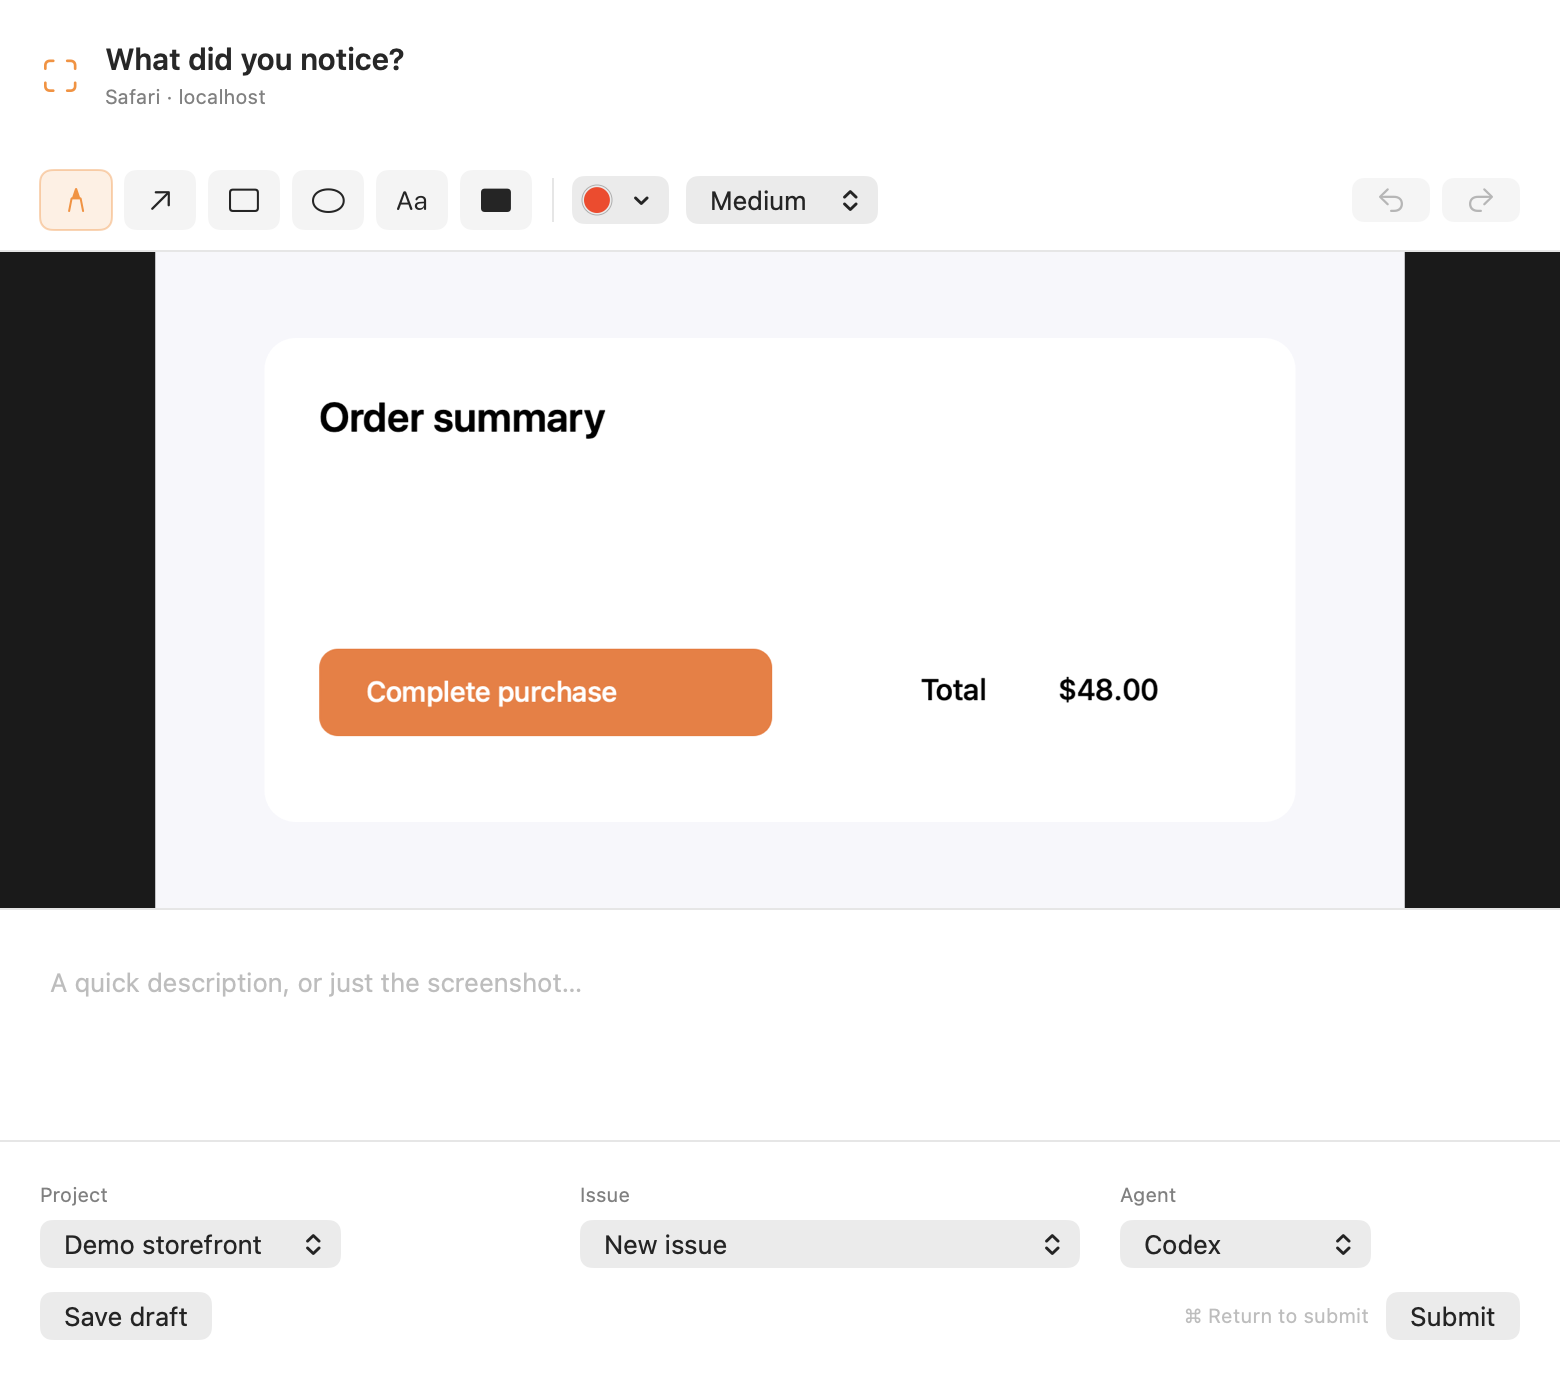
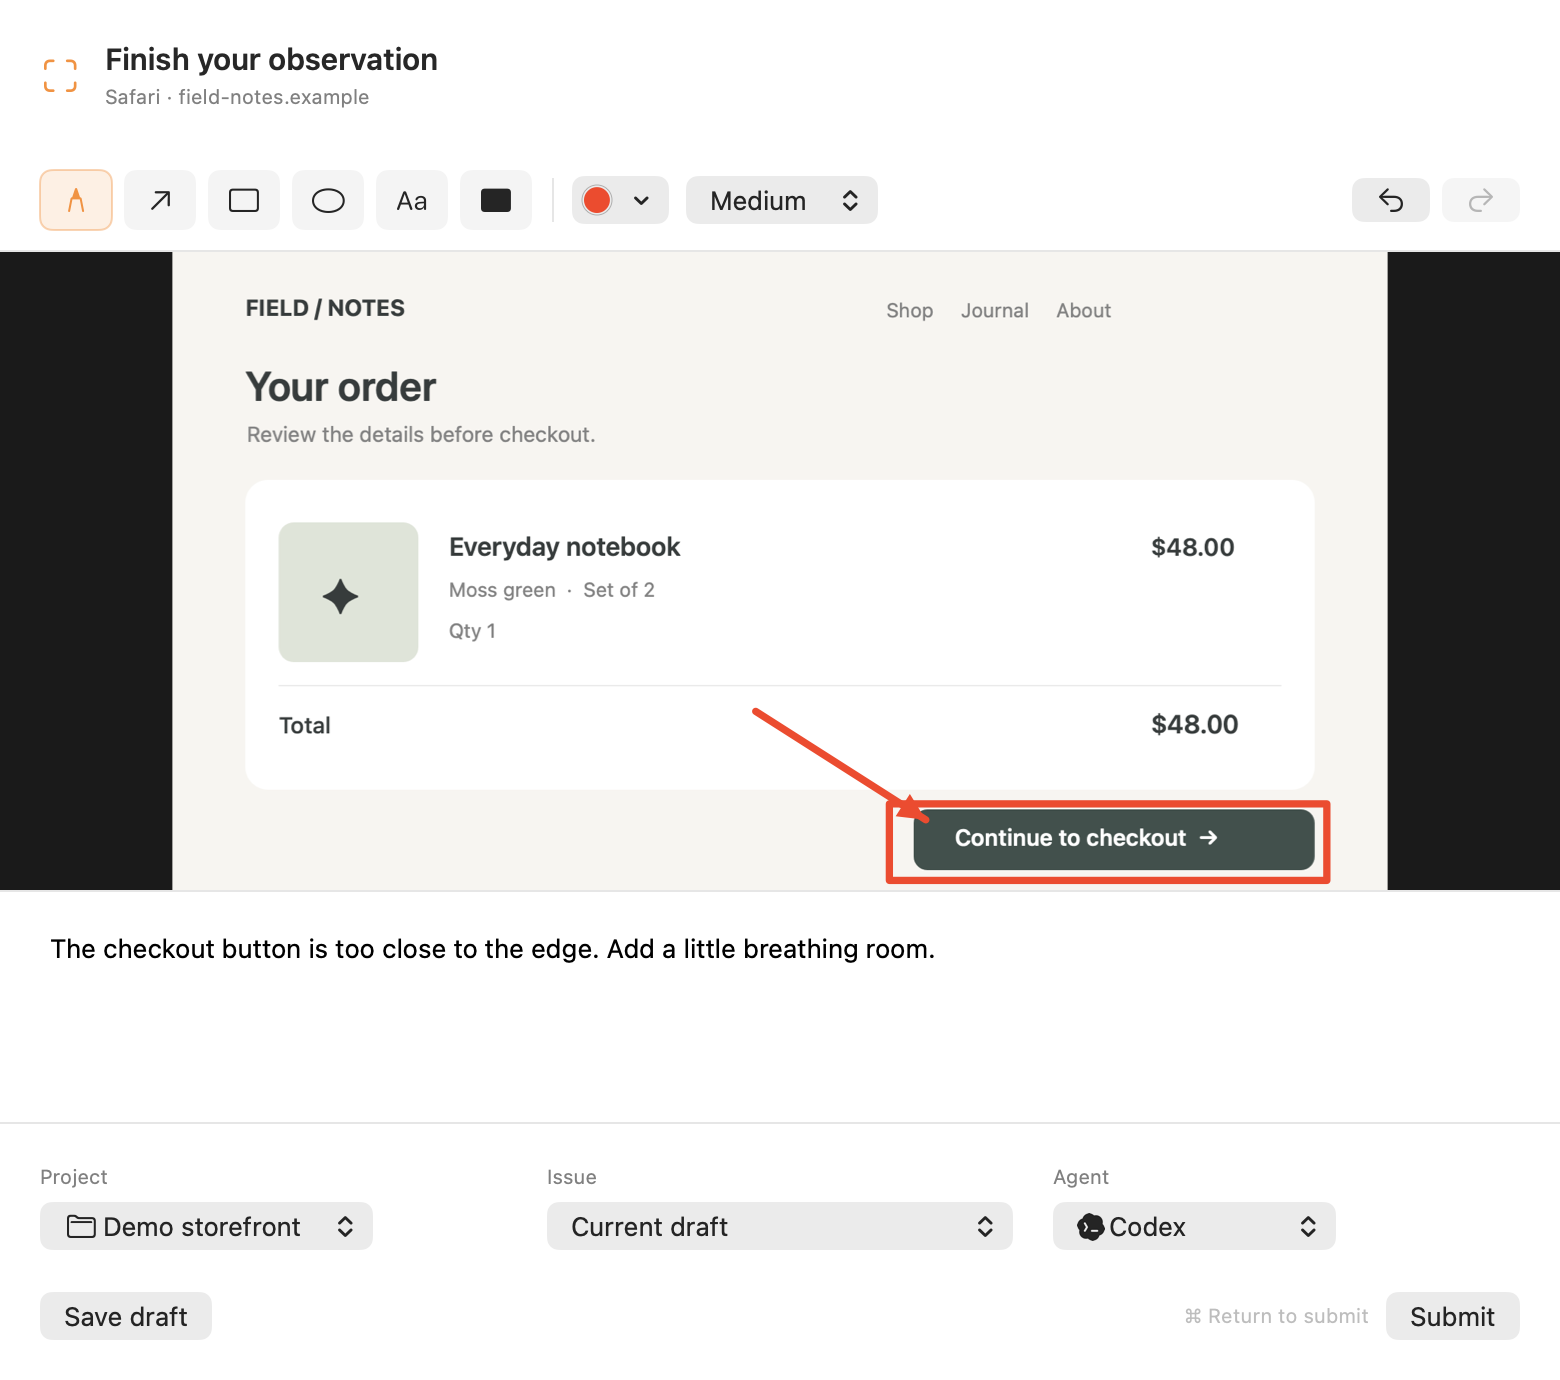
Refresh README screenshots and clarify agent availability

diff --git a/Sources/ScreenClip/PreviewSupport.swift b/Sources/ScreenClip/PreviewSupport.swift
@@ -5,36 +5,39 @@ import SwiftUI
   static func exampleImage() -> NSImage {
     let image = NSImage(size: NSSize(width: 800, height: 420))
     image.lockFocus()
-    NSColor(calibratedRed: 0.96, green: 0.96, blue: 0.98, alpha: 1).setFill()
+    NSColor(calibratedRed: 0.96, green: 0.95, blue: 0.93, alpha: 1).setFill()
     NSRect(x: 0, y: 0, width: 800, height: 420).fill()
-    let card = NSRect(x: 70, y: 55, width: 660, height: 310)
+    func text(_ value: String, x: CGFloat, y: CGFloat, size: CGFloat, weight: NSFont.Weight = .regular, color: NSColor = .labelColor) {
+      value.draw(at: NSPoint(x: x, y: y), withAttributes: [
+        .font: NSFont.systemFont(ofSize: size, weight: weight), .foregroundColor: color,
+      ])
+    }
+    func rounded(_ rect: NSRect, radius: CGFloat, color: NSColor) {
+      color.setFill()
+      NSBezierPath(roundedRect: rect, xRadius: radius, yRadius: radius).fill()
+    }
+    let ink = NSColor(calibratedRed: 0.16, green: 0.18, blue: 0.18, alpha: 1)
+    let muted = NSColor(calibratedWhite: 0.43, alpha: 1)
+    text("FIELD / NOTES", x: 48, y: 374, size: 15, weight: .bold, color: ink)
+    text("Shop     Journal     About", x: 470, y: 374, size: 13, color: muted)
+    text("Your order", x: 48, y: 316, size: 27, weight: .semibold, color: ink)
+    text("Review the details before checkout.", x: 49, y: 292, size: 14, color: muted)
     NSColor.white.setFill()
-    NSBezierPath(roundedRect: card, xRadius: 20, yRadius: 20).fill()
-    "Order summary".draw(
-      at: NSPoint(x: 105, y: 300),
-      withAttributes: [
-        .font: NSFont.systemFont(ofSize: 26, weight: .semibold), .foregroundColor: NSColor.black,
-      ])
-    "Your next adventure starts here.".draw(
-      at: NSPoint(x: 105, y: 255),
-      withAttributes: [
-        .font: NSFont.systemFont(ofSize: 17), .foregroundColor: NSColor.secondaryLabelColor,
-      ])
-    NSColor(calibratedRed: 0.94, green: 0.39, blue: 0.16, alpha: 1).setFill()
-    NSBezierPath(
-      roundedRect: NSRect(x: 105, y: 110, width: 290, height: 56), xRadius: 12, yRadius: 12
-    ).fill()
-    "Complete purchase".draw(
-      at: NSPoint(x: 135, y: 128),
-      withAttributes: [
-        .font: NSFont.systemFont(ofSize: 18, weight: .medium), .foregroundColor: NSColor.white,
-      ])
-    "Total          $48.00".draw(
-      at: NSPoint(x: 490, y: 128),
-      withAttributes: [
-        .font: NSFont.monospacedDigitSystemFont(ofSize: 19, weight: .medium),
-        .foregroundColor: NSColor.black,
-      ])
+    rounded(NSRect(x: 48, y: 66, width: 704, height: 204), radius: 15, color: .white)
+    rounded(NSRect(x: 70, y: 150, width: 92, height: 92), radius: 10,
+      color: NSColor(calibratedRed: 0.84, green: 0.87, blue: 0.81, alpha: 1))
+    text("✦", x: 98, y: 175, size: 32, weight: .medium, color: ink)
+    text("Everyday notebook", x: 182, y: 216, size: 17, weight: .semibold, color: ink)
+    text("Moss green  ·  Set of 2", x: 182, y: 190, size: 13, color: muted)
+    text("Qty 1", x: 182, y: 163, size: 13, color: muted)
+    text("$48.00", x: 644, y: 216, size: 16, weight: .semibold, color: ink)
+    NSColor(calibratedWhite: 0.9, alpha: 1).setFill()
+    NSRect(x: 70, y: 134, width: 660, height: 1).fill()
+    text("Total", x: 70, y: 99, size: 15, weight: .medium, color: ink)
+    text("$48.00", x: 644, y: 99, size: 17, weight: .semibold, color: ink)
+    rounded(NSRect(x: 488, y: 13, width: 264, height: 40), radius: 9,
+      color: NSColor(calibratedRed: 0.19, green: 0.25, blue: 0.23, alpha: 1))
+    text("Continue to checkout  →", x: 515, y: 25, size: 15, weight: .semibold, color: .white)
     image.unlockFocus()
     return image
   }
@@ -52,7 +55,7 @@ import SwiftUI
       browserURL: "http://localhost:3000/checkout", sessionName: "Checkout on a narrow window",
       testedVersion: "Preview build", routingReason: "Matched website rule")
     var first = Issue(
-      projectID: project.id, title: "Button label is clipped at this width",
+      projectID: project.id, title: "Checkout button needs more space",
       capture: Capture(
         note: "The purchase button needs a little more breathing room on small windows.",
         imagePath: asset, context: context))
@@ -85,6 +88,9 @@ import SwiftUI
   }
   static func render(model: AppModel, root: URL) throws {
     try seed(model: model)
+    model.applyScreenshotAgentStatus()
+    // Rendering uses a dedicated preview queue and never starts the worker.
+    try model.commit { $0.settings.paused = false }
     let window = NSWindow(
       contentRect: NSRect(x: 0, y: 0, width: 1240, height: 800), styleMask: [.titled],
       backing: .buffered, defer: false)
@@ -130,12 +136,26 @@ import SwiftUI
       image: exampleImage(),
       marks: [Annotation(kind: .redact, points: [MarkPoint(0.1, 0.1), MarkPoint(0.3, 0.25)])])
     try test.write(to: root.appendingPathComponent("redaction-preview.png"))
+    let previewContext = CaptureContext(
+      appName: "Safari", bundleID: "com.apple.Safari",
+      browserURL: "https://field-notes.example/checkout")
+    let previewCapture = Capture(
+      note: "The checkout button is too close to the edge. Add a little breathing room.",
+      imagePath: "preview", originalPath: "preview",
+      annotations: [
+        Annotation(kind: .rectangle, points: [MarkPoint(0.59, 0.865), MarkPoint(0.95, 0.985)],
+          color: .red, lineWidth: 0.006),
+        Annotation(kind: .arrow, points: [MarkPoint(0.48, 0.72), MarkPoint(0.62, 0.89)],
+          color: .red, lineWidth: 0.006),
+      ], context: previewContext)
+    var previewDraft = Issue(
+      projectID: model.snapshot.projects.first?.id, title: "Checkout button spacing",
+      capture: previewCapture)
+    previewDraft.status = .draft
     window.contentView = NSHostingView(
       rootView: ComposerView(
-        model: model, image: exampleImage(),
-        context: CaptureContext(
-          appName: "Safari", bundleID: "com.apple.Safari",
-          browserURL: "http://localhost:3000/checkout"), existing: nil, close: {}
+        model: model, image: exampleImage(), context: previewContext,
+        existing: previewDraft, close: {}
       ).background(Color.white).preferredColorScheme(.light))
     window.setContentSize(NSSize(width: 780, height: 690))
     window.display()

diff --git a/docs/agents/external-assistant.md b/docs/agents/external-assistant.md
@@ -8,10 +8,10 @@ Grok Bot is a remote destination. It does not run on the Mac and does not return
 
 | Topic | Behavior |
 | --- | --- |
-| Where it appears | Settings → Connections → **AI agent** → **Default agent**, the agent list, and the capture window's **Agent** picker, next to Codex and Claude Code. |
+| Where it appears | Settings → Connections → **AI agent** → **Default agent** and the agent list. The capture window offers Grok Bot when its connection and the project opt-in are ready. |
 | Ready | The Grok Bot row says **Connected** and the host once a setup code has been saved in the Keychain. Otherwise it says **Not connected — Connect Grok Bot**. |
 | Evidence | Approved screenshots and `report.json` are committed to `screenclip/<reportNumber>-<slug>-<workspace>` in the project's repository and pushed. The webhook does not contain image bytes. |
-| Opt-in | Each project has **Allow sending screenshots to the external assistant**, off by default. Public and private repositories both need it. The capture window explains why Grok Bot cannot be chosen while it is off. |
+| Opt-in | Each project has **Allow sending screenshots to the external assistant**, off by default. Public and private repositories both need it. A follow-up locked to Grok Bot explains why it cannot be sent while the opt-in is off. |
 | After a 2xx | Activity `Sent to external assistant`. The issue stays **Working** until a pull request is found. |
 | Pull request | The assistant opens a PR from that same branch. The body contains `ScreenClip: #<reportNumber>`. It may also contain `ScreenClip-Report:`, `ScreenClip-Revision:`, and `ScreenClip-Agent:`. ScreenClip polls GitHub and **Refresh PR status** picks it up immediately. A fork PR is ignored. A draft is attached and is not merged. |
 | Merge | ScreenClip decides. The existing auto-merge checks apply (validated head, passing checks, current revision, reviews). A PR that still contains `.screenclip/` files, or that is still a draft, is not auto-merged. |
@@ -75,11 +75,11 @@ The webhook also sends `Idempotency-Key` set to `delivery.key`. Request headers 
 
 ## Setup
 
-1. Open **Settings → Connections**. On the **Grok Bot** row, click **Connect Grok Bot**. The same button is in the capture window when Grok Bot is not connected.
+1. Open **Settings → Connections**. On the **Grok Bot** row, click **Connect Grok Bot**.
 2. In Grok Bot, open your ScreenClip assistant and ask it: **Connect ScreenClip**. It replies with a setup code. Copy that phrase with the button in the sheet.
 3. Paste the setup code. If it is already on the clipboard when the sheet opens, click **Use code from clipboard**. ScreenClip checks the connection and shows **Connected**, or a short explanation of what to do next.
 4. Turn on **Turn on for this project**. Approved annotated screenshots are pushed to a branch in that project's GitHub repo. A private repo is recommended. The same choice lives in **Settings → Projects** as **Allow sending screenshots to the external assistant**, and it stays off until you turn it on.
-5. Choose Grok Bot as **Default agent**, or pick it in the capture window. The capture-window row stays disabled until Grok Bot is connected and that project opt-in is on.
+5. Choose Grok Bot as **Default agent**, or pick it in the capture window once it is connected and that project opt-in is on.
 
 Afterward the row says **Connected** with the host, and offers **Test again** and **Disconnect**. **Advanced** still has the address and secret fields for anyone who already has them. **Save settings** stores edits there. **Disconnect** removes the Keychain item. Leaving both fields blank and clicking **Save settings** does not disconnect.
 
@@ -166,10 +166,10 @@ ScreenClip validates the pull request head with the project's validation command
 
 ## Picker
 
-Grok Bot is listed even when it is not connected.
+Grok Bot stays in Settings even when it is not connected. The capture window offers it when it is ready for the selected project.
 
 - **Settings:** it can be the default agent. The row is green and says **Connected** with the host when the connection is saved. Otherwise it says **Not connected — Connect Grok Bot**.
-- **Capture window:** the menu item is disabled, with **Connect Grok Bot**, until the connection is saved and the selected project has opted in. Follow-up captures stay on Grok Bot, the same way other agents stay locked.
+- **Capture window:** Grok Bot appears in the Agent menu only when it is connected and the selected project has opted in. A follow-up stays on Grok Bot and explains why it cannot be sent if the connection or opt-in is missing.
 
 ## Limitations
 

diff --git a/docs/release/open-source-audit.md b/docs/release/open-source-audit.md
@@ -12,7 +12,7 @@ A rewrite earlier the same day already removed the real queue snapshot and the r
 | --- | --- |
 | Screenshot queue | `ScreenshotFixture.materialize()` builds a temporary directory and `PreviewSupport.seed` fills it with the synthetic **Demo storefront** project. |
 | Localization screenshots | `scripts/render-localizations.sh` writes `build/localization-screenshots/`. `build/` is gitignored. Those PNGs are not committed. |
-| Marketing stills | `docs/screenshots/` and `website/src/assets/popup-light.png` / `popup-dark.png` are the Demo storefront images. On `claude/unstick-agent-runs` the `.webp` and `.avif` copies of that same popup are also the Demo storefront, not the earlier real captures. |
+| Marketing stills | The README includes an app screenshot supplied and approved for sharing by the owner; the menu and capture-editor examples use demo data. The website popup images use demo data. |
 | `.gitignore` | Ignores `Fixtures/ScreenshotData/` so a later copy of the queue is not added by accident. |
 | Secrets | No token, private key, webhook URL, or `.env` in the tree. `scripts/send_test_webhook.py` reads the URL from the environment. |
 
@@ -150,7 +150,7 @@ These are not the photographs. They survived the rewrite.
 
 | What | Where |
 | --- | --- |
-| Personal Gmail as the author address (local part starts with `land`) | `70158a2d2009bd4aebb48db566126635d444d98b` and `e32f81b39ed34ccc1304e9be9acbcbb758fba58f`. Both were created after the rewrite. The committer on both is `noreply@github.com`. The address is not repeated here. |
+| Personal Gmail as the author address | The audit found this in two commits created after the initial rewrite. The address is not repeated here; a subsequent branch-history cleanup replaces it with a GitHub noreply address. GitHub pull-request refs may still retain earlier metadata. |
 | Raw ScreenClip note used as the commit subject | `7874fb1` and `de80622`: "Fix: lets fix up the UI here the content is bleading out of the window. Check margins and alignements." `c6a5a07`: "Fix: Right align all the buttons here and verticali align the Edit buttons in their cells." |
 
 No token, private key, or webhook URL turned up in `git log --all -p` or in `git grep` of the rewritten branch tips. `/Users/me` and `/Users/x` in tests are fake home paths.

diff --git a/README.md b/README.md
@@ -7,10 +7,23 @@
 A native macOS menu bar app for the small things you notice: a clipped button, confusing copy, a missing detail, or an idea. Grab a screenshot, add a note if you want one, and keep going. ScreenClip keeps the image and the context together. Codex, Claude Code, or Grok Bot does the follow-up.
 
 <p align="center">
-  <img src="docs/screenshots/composer-preview.png" width="780" alt="ScreenClip capture editor with annotation tools, an optional note, and project, issue, and agent selectors.">
+  <img src="docs/screenshots/app-queue.png" width="1000" alt="ScreenClip's report queue, showing projects, reports, an agent request, and an annotated capture.">
 </p>
 
-*The capture editor, with sample data. [Report queue →](docs/screenshots/queue-preview.png)*
+<p align="center"><em>Keep reports, captures, and agent conversations together.</em></p>
+
+<table>
+  <tr>
+    <th>From the menu bar</th>
+    <th>Clip and annotate</th>
+  </tr>
+  <tr>
+    <td><img src="docs/screenshots/menu-preview.png" alt="ScreenClip menu bar popover showing report status and the new capture button."></td>
+    <td><img src="docs/screenshots/composer-preview.png" alt="ScreenClip capture editor with annotations, a note, and project and agent selectors."></td>
+  </tr>
+</table>
+
+*The menu and capture editor use sample data.*
 
 ## Download
 
